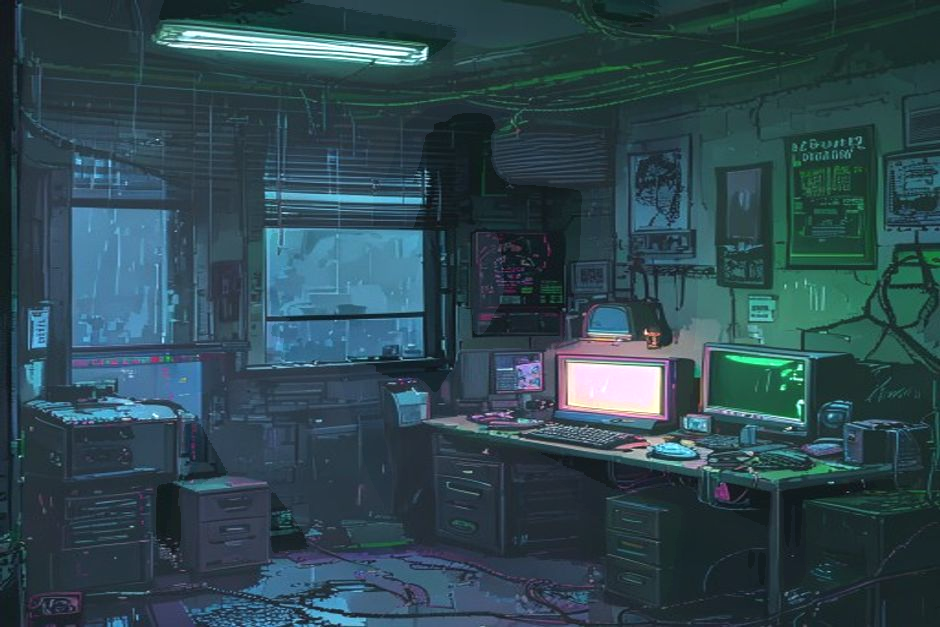
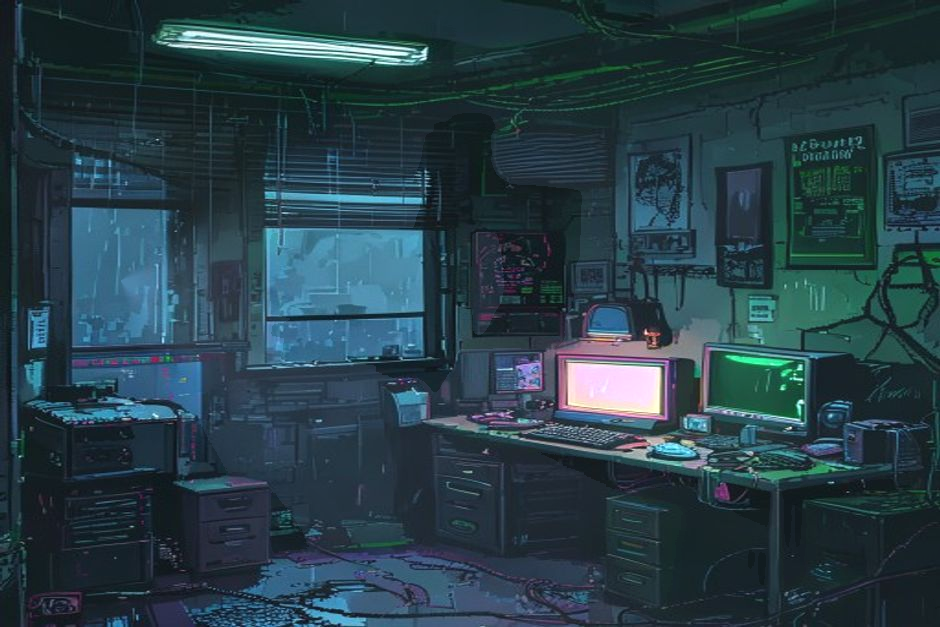
feat: add light mask system - confine each source to its area
- Add Light Mask system: rect, outside, cone, radial mask types
- Car headlights: rect mask restricts to window area only (f0.79 loop)
- Moonlight: cone mask (directional from window)
- Screen: cone mask (directional toward desk)
- Loop closure: 4.34 → 0.79
- Avg inter-frame diff: 3.42 → 1.58

Changed region(s): [[0.0, 0.0303, 0.4011, 0.8788]]

diff --git a/gen_depth_lighting.py b/gen_depth_lighting.py
@@ -117,21 +117,29 @@ SCENE_LIGHTS = {
         "base": "bg_apartment.png",
         "ambient": 0.02,
         "lights": [
+            # 月光从窗户进来，在窗附近最强，向室内衰减
             {"name": "moonlight", "pos": (120, 280),
              "color": [0.55, 0.65, 0.85], "intensity": (0.08, 0.22),
-             "radius": 600, "phase": _moonlight_clouds},
+             "radius": 600, "phase": _moonlight_clouds,
+             "mask": {"type": "cone", "dir": (1, 0.3), "angle_deg": 120, "feather": 30}},
+            # 车灯：只照亮窗户区域，几乎不进室内
             {"name": "car1", "pos": (60, 220),
              "color": [1.0, 0.92, 0.7], "intensity": (0.0, 0.08),
-             "radius": 500, "phase": _irregular_car},
+             "radius": 500, "phase": _irregular_car,
+             "mask": {"type": "rect", "region": (0, 80, 300, 400), "feather": 60}},
             {"name": "car2", "pos": (200, 180),
              "color": [1.0, 0.85, 0.6], "intensity": (0.0, 0.04),
-             "radius": 450, "phase": _phase_shift(_irregular_car, 3)},
+             "radius": 450, "phase": _phase_shift(_irregular_car, 3),
+             "mask": {"type": "rect", "region": (0, 60, 320, 420), "feather": 80}},
+            # 屏幕光：照亮桌面和面对屏幕的墙壁，不照天花板
             {"name": "screen", "pos": (770, 320),
              "color": [0.15, 0.7, 0.25], "intensity": (0.03, 0.18),
-             "radius": 280, "phase": _irregular_screen},
+             "radius": 280, "phase": _irregular_screen,
+             "mask": {"type": "cone", "dir": (-0.5, 1), "angle_deg": 100, "feather": 25}},
             {"name": "screen_flash", "pos": (750, 280),
              "color": [0.3, 0.85, 0.4], "intensity": (0.0, 0.08),
-             "radius": 200, "phase": _phase_shift(_irregular_screen, 5)},
+             "radius": 200, "phase": _phase_shift(_irregular_screen, 5),
+             "mask": {"type": "cone", "dir": (-0.3, 1), "angle_deg": 80, "feather": 20}},
         ],
     },
 
@@ -289,6 +297,91 @@ SCENE_LIGHTS = {
 }
 
 
+# ── Light Mask System ─────────────────────────────────────────────
+# 每个光源可以有一个 mask，限制光的影响区域。
+# mask 定义格式：
+#   {"type": "rect",    "region": (x1,y1,x2,y2), "feather": px}  — 矩形区域内生效
+#   {"type": "outside", "region": (x1,y1,x2,y2), "feather": px}  — 矩形区域外生效（阻挡光进入该区域）
+#   {"type": "cone",    "dir": (dx,dy), "angle_deg": N, "feather": deg}  — 锥形方向光
+# feather = 边缘渐变宽度（像素或度数）
+
+def generate_light_mask(mask_def, img_h, img_w, light_pos):
+    """根据 mask 定义生成 (H,W) 的软遮罩，值 0~1。"""
+    yy, xx = np.mgrid[0:img_h, 0:img_w].astype(np.float32)
+
+    if mask_def["type"] == "rect":
+        x1, y1, x2, y2 = mask_def["region"]
+        feather = mask_def.get("feather", 40)
+        # 硬边界
+        inside = np.ones((img_h, img_w), dtype=np.float32)
+        # X 方向渐变
+        if x1 > 0:
+            inside *= np.clip((xx - x1) / feather, 0, 1)
+        if x2 < img_w:
+            inside *= np.clip((x2 - xx) / feather, 0, 1)
+        # Y 方向渐变
+        if y1 > 0:
+            inside *= np.clip((yy - y1) / feather, 0, 1)
+        if y2 < img_h:
+            inside *= np.clip((y2 - yy) / feather, 0, 1)
+        return inside
+
+    elif mask_def["type"] == "outside":
+        # 矩形区域外生效（用于车灯：只照亮窗外，不照亮室内）
+        x1, y1, x2, y2 = mask_def["region"]
+        feather = mask_def.get("feather", 50)
+        outside = np.ones((img_h, img_w), dtype=np.float32)
+        # 矩形内部衰减
+        dx = np.clip((xx - x1) / feather, 0, 1) * np.clip((x2 - xx) / feather, 0, 1)
+        dy = np.clip((yy - y1) / feather, 0, 1) * np.clip((y2 - yy) / feather, 0, 1)
+        interior = dx * dy  # 矩形内部接近 1
+        outside = 1.0 - interior * mask_def.get("block_strength", 0.9)
+        return np.clip(outside, 0, 1)
+
+    elif mask_def["type"] == "cone":
+        # 锥形方向光：从光源位置出发，沿指定方向的锥形范围
+        dx_dir, dy_dir = mask_def["dir"]
+        angle_deg = mask_def.get("angle_deg", 60)
+        feather_deg = mask_def.get("feather", 15)
+        lx, ly = light_pos
+
+        # 每个像素相对光源的方向
+        pix_dx = xx - lx
+        pix_dy = yy - ly
+        pix_dist = np.sqrt(pix_dx**2 + pix_dy**2) + 1e-8
+
+        # 光源方向向量归一化
+        dir_len = np.sqrt(dx_dir**2 + dy_dir**2) + 1e-8
+        dx_dir /= dir_len
+        dy_dir /= dir_len
+
+        # 夹角（度）
+        cos_angle = (pix_dx * dx_dir + pix_dy * dy_dir) / pix_dist
+        cos_angle = np.clip(cos_angle, -1, 1)
+        angle = np.degrees(np.arccos(cos_angle))
+
+        # 锥形内 + feather 渐变
+        half = angle_deg / 2
+        mask = np.clip((half - angle) / feather_deg, 0, 1)
+        return mask
+
+    elif mask_def["type"] == "radial":
+        # 径向衰减：从指定中心向外衰减
+        cx, cy = mask_def["center"]
+        inner_r = mask_def.get("inner_radius", 0)
+        outer_r = mask_def["radius"]
+        dist = np.sqrt((xx - cx)**2 + (yy - cy)**2)
+        mask = np.clip((outer_r - dist) / (outer_r - inner_r + 1e-8), 0, 1)
+        return mask
+
+    return np.ones((img_h, img_w), dtype=np.float32)
+
+
+def get_mask_cache_key(mask_def):
+    """生成 mask 缓存 key。"""
+    return str(sorted(mask_def.items()))
+
+
 # ── Depth Model ───────────────────────────────────────────────────
 
 def load_depth_model():
@@ -326,7 +419,7 @@ def postprocess_depth(depth, target_h, target_w):
 # ── Lighting Engine ───────────────────────────────────────────────
 
 def compute_lighting(depth_map, frame_idx, img_h, img_w, scene_config):
-    """Compute per-pixel lighting for a single frame."""
+    """Compute per-pixel lighting for a single frame with light masks."""
     depth_float = depth_map.astype(np.float32) / 255.0
     yy, xx = np.mgrid[0:img_h, 0:img_w].astype(np.float32)
 
@@ -346,11 +439,19 @@ def compute_lighting(depth_map, frame_idx, img_h, img_w, scene_config):
         depth_factor = 1.0 - depth_float
         shadow = ray_march_shadows(depth_float, (lx, ly), img_h, img_w)
 
+        # Light mask: 限制光源影响区域
+        mask_def = src.get("mask")
+        if mask_def:
+            light_mask = generate_light_mask(mask_def, img_h, img_w, (lx, ly))
+        else:
+            light_mask = np.ones((img_h, img_w), dtype=np.float32)
+
         contrib = (color[np.newaxis, np.newaxis, :] *
                    intensity *
                    attenuation[:, :, np.newaxis] *
                    depth_factor[:, :, np.newaxis] *
-                   shadow[:, :, np.newaxis])
+                   shadow[:, :, np.newaxis] *
+                   light_mask[:, :, np.newaxis])
         total_light += contrib
 
     return np.clip(total_light, 0.0, 1.5)
